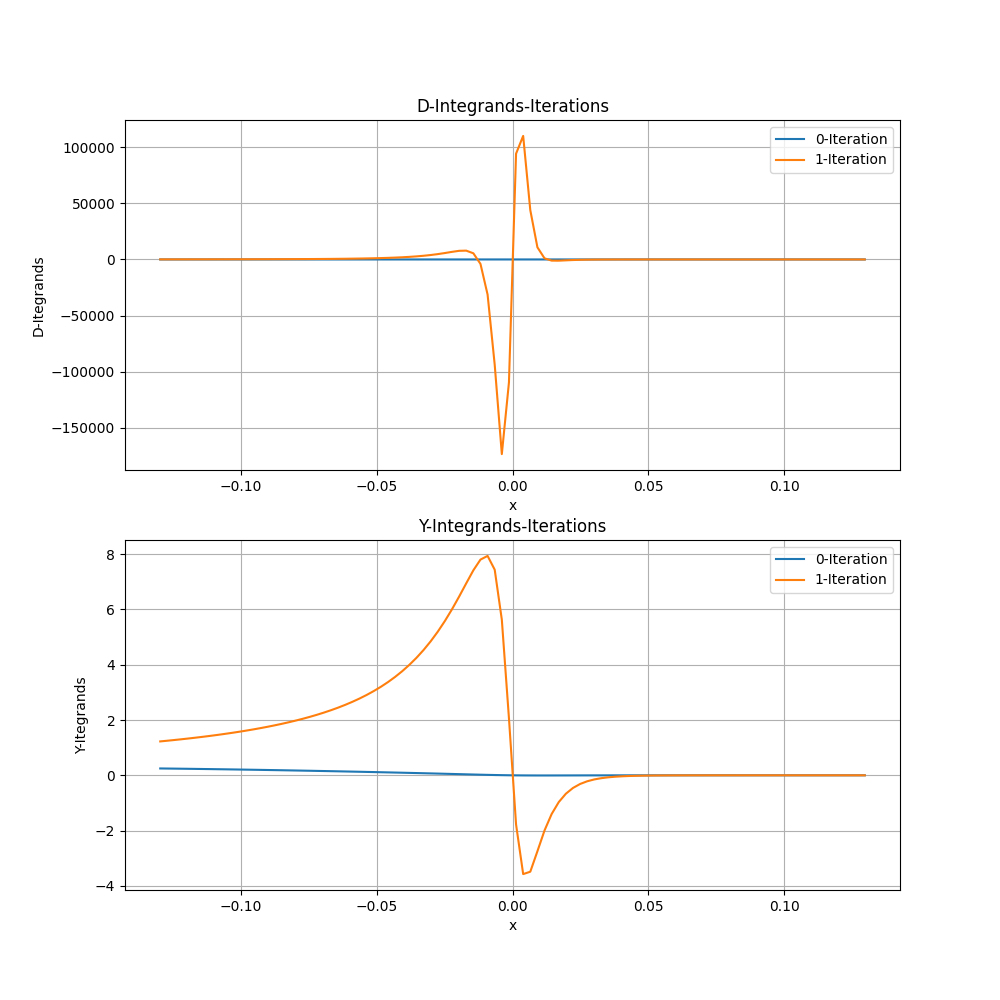
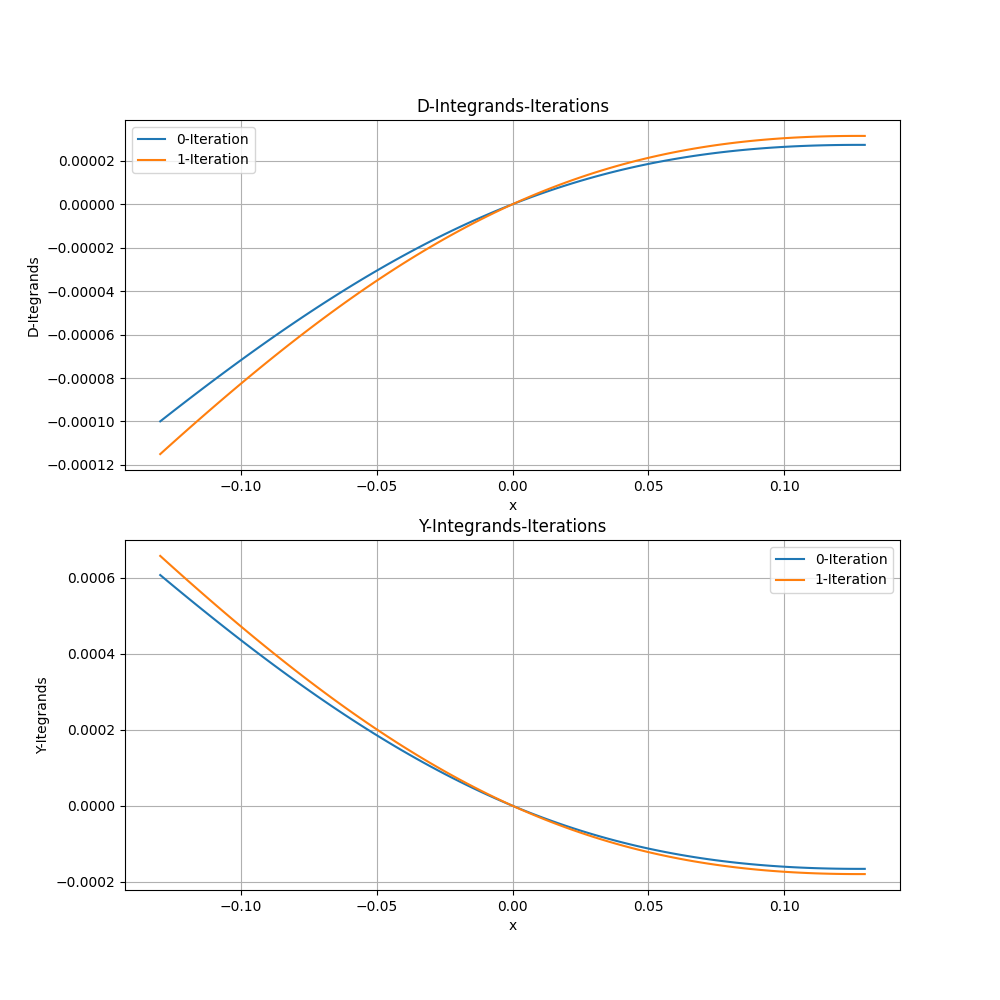
Dear Sunil I made modification of this code for readng txt. files with data from supercomputer. In our nex meeting i try to discuss the possible paralelization of this code for many cores. I am also adding the first raw plotted data of the a-function. Jenda

diff --git a/SolveForGamma.py b/SolveForGamma.py
@@ -6,7 +6,7 @@ from Main_Terms_In_Equations import Main_Terms_Equations
 from MakeFunction_Gamma import MakeFunctions_Gamma
 from Operation_with_files import Operation_with_files
 from PlotingFunctions import PlottigFunctions
-
+import os
 
 class MakeIterationProcessforGamma:
   #Here is a construction of class variables
@@ -30,6 +30,7 @@ class MakeIterationProcessforGamma:
         self.h5py_filename= 'Data.h5'
         self.h5py_solution_filename='Solutions.h5'
         self.Path_Files='Files'
+        self.Critial_Data_File_Name= 'Data_4.txt'
         self.Path_Images='Images'
         self.Sigma_0=Sigma_0
         self.Gamma_values= np.linspace(-2,-0.001, self.num_steps+1)
@@ -56,7 +57,6 @@ class MakeIterationProcessforGamma:
             SigmaIterations.append(Sigma)
             Gamma = self.Gamma(Sigma)
             NewSigma = self.GenerateSolution(Gamma)  # self.NewSigma(self.omegavalues, Sigma, i) #Calculating Sigma
-
             # Tolerance check
             if self.CheckingforContinue(SigmaValues, NewSigma) == True:
                 return NewSigma, np.array(SigmaIterations)
@@ -85,7 +85,7 @@ class MakeIterationProcessforGamma:
             return False
 
 
-
+    #This is for findin key interval for applying the nonlinear equation solver
     def SpecificateInterval(self, f, x0, x1):
         step = 100
         max_kroku = 500  # Pojistka proti nekonečné smyčce
@@ -172,7 +172,8 @@ class MakeIterationProcessforGamma:
         self.PF.Plot_Beta_Gamma_Dependence(res, self.beta, self.Gamma_values, self.U)
         return res
 
-
+    #This is for  solution analyzing and read the h5py-file and plots in
+  # graphs with limits of the intervals which are imput parameter to Nonlinear equation solver
     def AnalyzeTheSolution_read(self):
         x0, x1, x1_new= (np.full(self.beta.size,self.Gamma_values[0], dtype=float),
                          np.full((self.beta.size),self.Gamma_values[-1], dtype=float),
@@ -194,7 +195,7 @@ class MakeIterationProcessforGamma:
   # values x0,x1 to satisfy this condition
   # f(x0)f(x1)<0 and before using this interval method i decided to use correctly
   # directed Monte Carlo algorithm
-    def GenerateIntervalMonteCarlo(self, function, search_interval=(-100, 0), limit=10):
+    def GenerateIntervalMonteCarlo(self, function, search_interval=(-100, 0)):
         Num_Iteration=int(1e4)
         for _ in range(Num_Iteration):
             x0,x1=np.random.uniform(search_interval[0],
@@ -208,8 +209,6 @@ class MakeIterationProcessforGamma:
                 return x0,x1
         print('Chyba, čísla nenalezena')
         return None
-
-
 
     #I added this this method to make calculation and solving
   # final nonlinear equation
@@ -240,51 +239,104 @@ class MakeIterationProcessforGamma:
         return x0, x1, x2
 
 
-    #THis method is so far unique particaly functable final nonlinear equation solver
-
-
+    #This method is so far unique particaly functable final nonlinear equation solver
     def SolveFinalEquation(self):
-        solutions = np.empty((self.beta.size,self.U_values.size), )
+        solutions = np.empty((self.beta.size, self.U_values.size), )
         current_U = {}
         Op_files = Operation_with_files(self.h5py_filename)
-        #data=Op_files.Read_file('solutions')
-        #for i,  beta  in enumerate(data):
-            #print(f'Solutions-for-beta={self.beta[i]}:', data[i])
-
-
-
-
-        tol=1e-13
+        # data=Op_files.Read_file('solutions')
+        # for i,  beta  in enumerate(data):
+        # print(f'Solutions-for-beta={self.beta[i]}:', data[i])
+        tol = 1e-24
         # self.PF.Plot_Fermi_function(self.x_values, self.beta)
         for i, beta in enumerate(self.beta):
-            for  j, U in enumerate(self.U_values):
+            for j, U in enumerate(self.U_values):
                 mkf = MakeFunctions_Gamma(beta, self.x_values, self.t_value, self.omegavalues, U)
-
                 terms = Main_Terms_Equations(beta, self.x_values, self.t_value, self.omegavalues, U,
                                              self.NumIteration, self.Tolerance, self.Rezolution)
-
-                x0, x1 = -0.5,-1e-90# self.GenerateIntervalMonteCarlo(function)
+                x0, x1 = -10, -1e-90  # self.GenerateIntervalMonteCarlo(function)
                 f = lambda gamma: terms.NonlinearEquationA(gamma, beta, mkf)
                 #print((f(x0),f(x1)))
-                if f(x0)*f(x1)<0:
+                if f(x0) * f(x1) < 0:
                     solution_1 = root_scalar(f=terms.NonlinearEquationA, args=(beta, mkf), method='toms748',
-                                             maxiter=1000, xtol=1e-13,rtol=1e-13, bracket=(x0, x1))
-                    #print(solution_1.root)
-                    if np.abs(solution_1.root)>np.abs(tol):
+                                             maxiter=1500, xtol=tol, rtol=2.22045e-16, bracket=(x0, x1))
+                    # print(solution_1.root)
+                    if np.abs(solution_1.root) > np.abs(tol):
                         solutions[i][j] = solution_1.root
-                        print(f'a-solution-for-U={U}-beta={beta}', terms.a(solutions[i][j] * beta ** 2, mkf))
+                        print(f'a-solution-for-U={U}-beta={beta}', terms.a(solutions[i][j] , mkf)* beta ** 2)
+                        print(f'Gamma-solution-U={U}-beta={beta}', solution_1.root)
+                        print(f'U={U}-beta={beta}', solution_1.iterations)
                     else:
-                        solutions[i][j]=np.nan
+                        solutions[i][j] = np.nan
                 else:
-                    solutions[i][j] =np.nan
-
+                    solutions[i][j] = np.nan
                 current_U[f'for-U:{U}-beta-{beta}'] = solutions[i][j]
-
-
             print(f'Solutions-for-beta={beta}:', solutions[i])
             # self.PF.PlotGammaNonlinear(self.Gamma_values, self.GammaNonlinearFunction(self.Gamma_values,beta,mkf),beta)
-
         # self.PF.Plot_3D_solutions(self.beta, self.U_values, solutions)
+        Op_files.Write_to_file(f'solutions-{(self.U_values.min, self.U_values.max)}-{(self.beta.min, self.beta.max)}', solutions)
+
+    #I made this function to confim Šimon's theoretical concepts and plotting these integrals
+  # and printing the a-function and this aproximation
+    def PlotIntergrals(self, ):
+        filtered = []
+        Gamma_2 = np.linspace(-5, -0.1, 50)
+        Mkf = MakeFunctions_Gamma(10, self.x_values, self.t_value, self.omegavalues, self.U)
+        #Sigma= Mkf.Sigma(self.Gamma_0)
+        for i, gamma in enumerate(Gamma_2):
+            integral_Y= Mkf.Y(gamma)
+            integral_D= Mkf.D(gamma)
+            integral_Y_approx = Mkf.Y_Gamma_approx_integrand(gamma)
+            integral_D_approx = Mkf.D_Gamma_approx_integrand(gamma)
+            #Sigma = Mkf.Sigma(gamma)
+            print(f'Integrals Y and D for gamma {gamma}', np.array([integral_Y, integral_D]))
+            print(f'Integrals Y_aprox and D_approx for gamma {gamma}', np.array([integral_Y_approx, integral_D_approx]))
+            #Mkf.CollectDataAndPlot(gamma)
+
+    #I added this function for read gained data and get this data to plot for šimon
 
 
-        Op_files.Write_to_file('solutions', solutions)
+    def ReadFilewithData(self):
+        filtered =  []
+        a_critical_beta = np.zeros((len(self.beta), len(self.U_values)))
+        roots= np.empty(a_critical_beta.shape)#a_critical_beta.copy()
+        name = os.path.join(self.Path_Files, self.Critial_Data_File_Name)
+        with open(name, "r", encoding="utf-8") as f:
+            lines = f.readlines()
+            for i, beta in enumerate(self.beta):
+                for j, U in enumerate(self.U_values):
+                    key = f'a-solution-for-U={U}-beta={beta}'
+                    key_gamma = f'Gamma-solution-U={U}-beta={beta}'
+                    for line in lines:
+                        if line.startswith(key):
+                            value = float(line.split()[-1])
+                            a_critical_beta[i, j] = value
+                        elif line.startswith(key_gamma):
+                            #print('Gamma_found')
+                            value=float(line.split()[-1])
+                            roots[i,j]= value
+
+            for i in range(self.beta.size):
+                constant= roots[6][-1]
+                condition=  (roots[i]!= constant)
+                filtered_row = a_critical_beta[i][condition]
+                filtered.append(filtered_row)
+
+
+        self.PF.Plot_Final_Dependence(
+            self.beta,
+            self.U_values,
+             filtered,
+        )
+
+
+
+
+
+
+
+
+
+
+
+

diff --git a/PlotingFunctions.py b/PlotingFunctions.py
@@ -16,7 +16,7 @@ class PlottigFunctions:
         self.Path_Images='Images'
 
     #Ploting Integrands for Values of Sigma,
-    def PlotingItegrands(self, D_array, Y_array ,x_values, ):
+    def PlottingItegrands(self, D_array, Y_array ,x_values, ):
         fig , axes = plt.subplots(2,1, figsize=(10,10))
         for i in range(D_array.shape[0]):
             axes[0].plot(x_values, D_array[i], label=f"{i}-Iteration")
@@ -153,7 +153,7 @@ class PlottigFunctions:
 # This is function for plting every root of quartic equation in the dependence of omega
 
     def PlotRootsofQuarticEquation(self, roots, omega):
-        nazev = 'Self-Energy for every root of quartic equation'
+        nazev = f'Self-Energy for every root of quartic equation'
         fig, axes = plt.subplots(2, 2, figsize=(10, 12), sharex=True)
         axes = axes.flatten()  # převede [ [a,b], [c,d] ] -> [a,b,c,d]
         for i in range(len(roots)):
@@ -166,7 +166,7 @@ class PlottigFunctions:
             axes[i].grid(True)
         fig.suptitle(nazev)
         plt.tight_layout(rect=[0, 0, 1, 0.96])  # aby nebyl překryt hlavní titulek
-        plt.savefig(nazev + '_subplots.png', dpi=300)
+        plt.savefig(os.path.join(self.Path_Files, nazev + f'_subplots.png'), dpi=300)
         plt.show()
 
 #This is modified function to plting the roots of both equation Nonlinear and Quartic
@@ -206,8 +206,8 @@ class PlottigFunctions:
         plt.show()
     #Here is method to ploting our specific root of
     # quartic equation solved by nonlinear method
-    def PlotRootOfEquation(self, root, omega):
-        nazev = 'Self-Energy for root of nonlinear equation'
+    def PlotRootOfEquation(self, root, omega, Gamma):
+        nazev = f'Self-Energy for root of nonlinear equation'
         plt.figure( figsize=(10, 10))
         plt.scatter(omega, root.real, label=f" Root (Re)")
         plt.scatter(omega, root.imag, label=f" Root (Im)")
@@ -218,7 +218,7 @@ class PlottigFunctions:
         plt.grid(True)
         plt.title(nazev)
         #plt.tight_layout(rect=[0, 0, 1, 0.96])  # aby nebyl překryt hlavní titulek
-        plt.savefig(nazev + '_subplots.png', dpi=300)
+        plt.savefig(os.path.join(self.Path_Files,nazev + f'_subplots-{Gamma}.png'), dpi=300)
         plt.show()
 
     def PlotRootOfEquationEps(self, root, omega, epsilon):
@@ -417,3 +417,21 @@ class PlottigFunctions:
         plt.grid(True)
         plt.savefig(os.path.join(self.Path_Images,'Fermi_function_for_different_beta_for.png'))
         plt.show()
+
+
+
+    def Plot_Final_Dependence(self,  beta,U_values,a_beta_crtitical):
+            Name=f'Critical_Behaviour-Attampt-2.png'
+            plt.rcParams['text.usetex'] = True
+            plt.figure(figsize=(10,10))
+            for i , beta in enumerate(beta):
+                size=U_values.size-np.array(a_beta_crtitical[i]).size
+                U_values= U_values if size==0 else U_values[:-size]
+                plt.plot(U_values,a_beta_crtitical[i]/(beta**2), label=rf'$\beta$-{beta}' )
+            plt.grid(True)
+            plt.xlabel(rf'U')
+            plt.ylabel(rf'$a(\Gamma)$')
+            plt.ylim(0, 5)
+            plt.legend()
+            plt.savefig(os.path.join(self.Path_Images, Name))
+            plt.show()

diff --git a/MakeFunction_Gamma.py b/MakeFunction_Gamma.py
@@ -123,7 +123,7 @@ class MakeFunctions_Gamma:
             sig = Sigma(float(x)).item()
             values[i] = (1 / np.pi) * self.FermiFunction(x) * self.SumOfComplexRations(x, sig)
 
-        self.D_Iterations.append(values)
+        self.D_Iterations.append((values))
 
     def Y_Integrand(self, Gamma):
         Sigma = self.Sigma(Gamma)
@@ -132,7 +132,7 @@ class MakeFunctions_Gamma:
             sig = Sigma((x)).item()
             values[i] = (1 / np.pi) * self.FermiFunction(x) * self.ComplexFrac_in_Y(x, sig)
 
-        self.Y_Iterations.append(values)
+        self.Y_Iterations.append((values))
 
     # ================= GREEN FUNCTION =================
 
@@ -143,9 +143,19 @@ class MakeFunctions_Gamma:
 
     # ================= PLOTTING =================
 
-    def CollectDataAndPlot(self, Sigma):
-        self.Y_Integrand(Sigma)
-        self.D_Integrand(Sigma)
+    def CollectDataAndPlot(self, Gamma):
+        self.Y_Integrand(Gamma)
+        self.D_Integrand(Gamma)
         D_array = np.vstack(self.D_Iterations)
         Y_array = np.vstack(self.Y_Iterations)
-        self.PF.PlotingItegrands(D_array, Y_array, self.x_values)
+        self.PF.PlottingItegrands(D_array, Y_array, self.x_values)
+
+    def Y_Gamma_approx_integrand(self, Gamma):
+        result= 4/(3*np.pi*np.sqrt(-Gamma))
+
+        return result
+
+    def D_Gamma_approx_integrand(self, Gamma):
+        result =- 8*self.t_value**2/(15*np.pi)*(1/(np.sqrt(-Gamma))**3)
+        return result
+

diff --git a/Nonlinear_Equation_Gamma_Solver.py b/Nonlinear_Equation_Gamma_Solver.py
@@ -1,7 +1,7 @@
 import numpy as np
 import os
 from scipy.optimize import root_scalar
-
+from PlotingFunctions import PlottigFunctions
 
 #Hi Sunil I decided to create this class, because i neded to get our
 # caluculations under control and for better orientation and clasification
@@ -10,6 +10,7 @@ class Nonlinear_Equation_Solver:
     def __init__(self, t, omegavalues,):
         self.t_value= t
         self.omega_values= omegavalues
+        self.PF = PlottigFunctions()
 
 
 
@@ -56,6 +57,9 @@ class Nonlinear_Equation_Solver:
             solution = root_scalar(f=self.NonlinearEquation, method='newton', args=(Gamma,eps, omega),
                                    fprime=self.NonlinearEquationDerivative, x0=omega_0, maxiter=1000)
             complete_solution[i] = solution.root
+
+        #self.PF.PlotRootOfEquation(-1j * complete_solution * 2 * self.t_value,
+            #self.omega_values,Gamma)
         return complete_solution
 
 # Tis method tested the dependence of solution on different values of epsilon
@@ -73,6 +77,6 @@ class Nonlinear_Equation_Solver:
 
 
                 complete_solution[i][j] = solution.root
-        self.PF.PlotRootOfEquationEps(-1j * complete_solution * 2 * self.t_value,
-                                      self.omegavalues, self.epsilon)
+        self.PF.PlotRootOfEquation(-1j * complete_solution * 2 * self.t_value,
+                                      self.omega_values)
         return complete_solution

diff --git a/Main_class_version_2.py b/Main_class_version_2.py
@@ -7,6 +7,7 @@ from SolveQuarticEquation import SolveQuarticEquation
 from MakeFunction_Gamma import MakeFunctions_Gamma
 from SolveForGamma import MakeIterationProcessforGamma
 matplotlib.use('TkAgg')
+from multiprocessing import Pool
 
 #Zero iteration of self-energy
 def ZerothIterationofSelfEnergy(U,t):
@@ -28,7 +29,7 @@ File_dir= 'Files'
 # Simulation parameters
 t = 1.0  #Hopping parameter
 U =-2.0#np.array([0.5, 0.75, 1.0, 1.5, 2.0,2.5,3.0,4.0,5.0,6.0,7.0,8.0,9.0]) Culoumb Interaction
-U_values=np.linspace(-2.0,-0.1, 50)#np.array([0.5, 0.75, 1.0, 1.5, 2.0,2.5,3.0,4.0,5.0,6.0,7.0,8.0,9.0])
+U_values=np.linspace(-2,-0.1, 50)#np.array([0.5, 0.75, 1.0, 1.5, 2.0,2.5,3.0,4.0,5.0,6.0,7.0,8.0,9.0])
 beta_element= 1/(np.abs(ZerothIterationofSelfEnergy(U,t)))
 beta =  np.logspace( 1,6, 9 )#np.array([30,100,300 ,1000, 3000, 1e4 ,1e5,1e6,1e7,1e8])
 
@@ -54,6 +55,7 @@ while True:
                                       Tolerance, Rezolution,
                                       Gamma_0(U,t),ZerothIterationofSelfEnergy(U,t))
 
+            #IP.ReadFilewithData()
             IP.SolveFinalEquation()
             #IP.GiveFinalG()
             #IP.Read_Data_and_plot()

diff --git a/Main_Terms_In_Equations.py b/Main_Terms_In_Equations.py
@@ -83,5 +83,10 @@ class Main_Terms_Equations:
         FinalEquation = -(1 / self.U) - Mkf.Y(Gamma) + DotsOfIntegrals
         return FinalEquation
 
+    def SqrtGamma_ideal(self,):
+        return -self.U*((4/(3*np.pi))+(15/(4*np.pi*self.beta**2*self.t_value**2)))
 
-
+    def a_ideal(self):
+       result=1-(1/(1+(45/(16*self.beta**2 *self.t_value**2))))
+       #print(result)
+       return  result*self.beta**2

diff --git a/Test.py b/Test.py
@@ -1,0 +1,6 @@
+import numpy as np
+import matplotlib.pyplot as plt
+
+a=10
+b= 50
+print(np.sqrt((a**2+b**2)))
